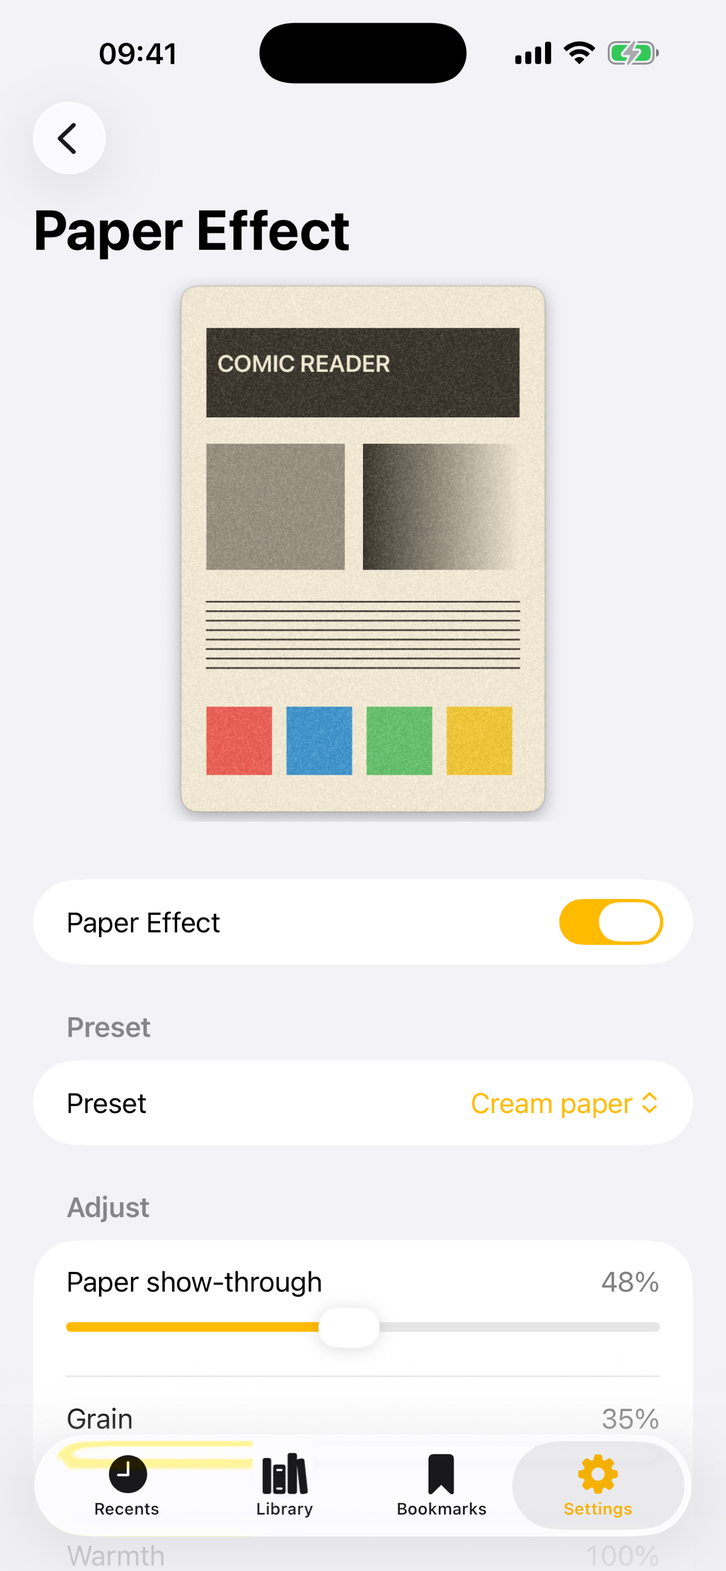
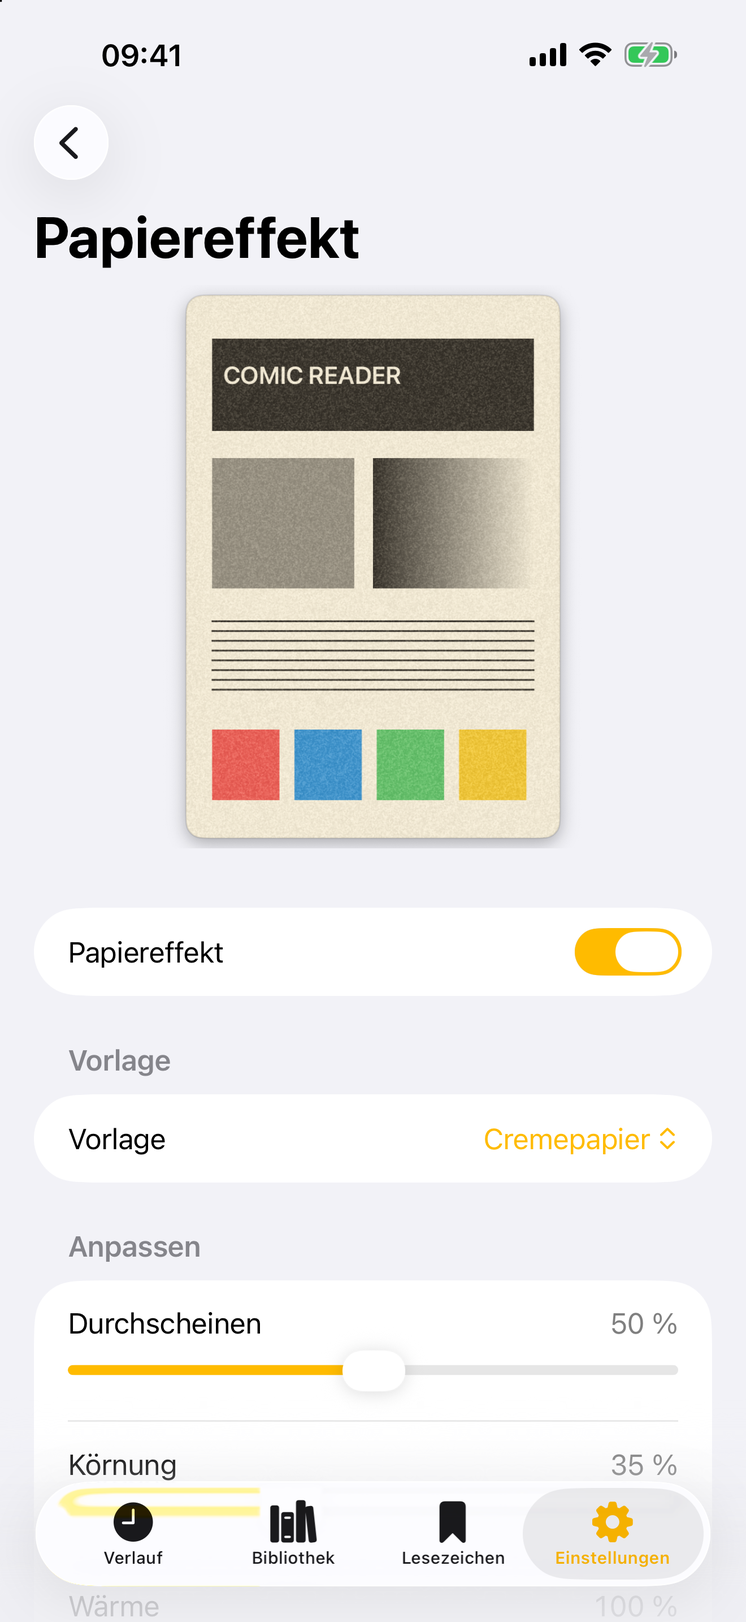
Update the Paper Comic Reader post with new screenshots

diff --git a/blog/paper-comic-reader/index.html b/blog/paper-comic-reader/index.html
@@ -16,11 +16,11 @@
 	<meta property="og:site_name" content="wiredframe">
 	<meta property="og:locale" content="de_DE">
 	<meta name="twitter:card" content="summary_large_image">
-	<meta property="og:image" content="https://www.wiredframe.de/blog/paper-comic-reader/vorschau-zuletzt.jpg">
-	<meta name="twitter:image" content="https://www.wiredframe.de/blog/paper-comic-reader/vorschau-zuletzt.jpg">
-	<meta property="og:image:alt" content="Die Ansicht „Recents“ mit dem Cover des Demo-Comics „Deep Blue“ im Karussell, darunter Titel, Seitenzahl und der Knopf „Read“">
+	<meta property="og:image" content="https://www.wiredframe.de/blog/paper-comic-reader/vorschau-verlauf.jpg">
+	<meta name="twitter:image" content="https://www.wiredframe.de/blog/paper-comic-reader/vorschau-verlauf.jpg">
+	<meta property="og:image:alt" content="Die Ansicht „Verlauf“: das rote Cover des Demo-Comics „Crimson Alley“ im Karussell, darunter Titel, Seitenzahl und der Knopf „Lesen“">
 	<meta property="article:published_time" content="2026-07-24">
-	<meta property="article:modified_time" content="2026-10-20">
+	<meta property="article:modified_time" content="2026-11-03">
 	<meta name="viewport" content="width=device-width, initial-scale=1, viewport-fit=cover">
 	<meta name="theme-color" content="#e2ebe6">
 	<meta name="robots" content="index, follow, max-snippet:-1, max-image-preview:large">
@@ -33,9 +33,9 @@
 		"description": "Ich bin UI Designer und schreibe keine Schleifen von Hand. Trotzdem liegt jetzt eine iOS-App von mir im App Store, gebaut zusammen mit Claude, angestoßen von einem Rest Wochenkontingent.",
 		"url": "https://www.wiredframe.de/blog/paper-comic-reader/",
 		"datePublished": "2026-07-24",
-		"dateModified": "2026-10-20",
+		"dateModified": "2026-11-03",
 		"inLanguage": "de-DE",
-		"wordCount": 1302,
+		"wordCount": 1448,
 		"author": {
 			"@id": "https://www.wiredframe.de/#ulf"
 		},
@@ -45,7 +45,7 @@
 		"isPartOf": {
 			"@id": "https://www.wiredframe.de/blog/#blog"
 		},
-		"image": "https://www.wiredframe.de/blog/paper-comic-reader/vorschau-zuletzt.jpg"
+		"image": "https://www.wiredframe.de/blog/paper-comic-reader/vorschau-verlauf.jpg"
 	}
 	</script>
 	<link rel="stylesheet" href="/css/blog.css?v=dc19f69c">
@@ -63,15 +63,15 @@
 		</a>
 		<article class="beitrag">
 			<header class="beitrag__kopf">
-				<p class="meta"><time datetime="2026-07-24">24. Juli 2026</time><span>aktualisiert am <time datetime="2026-10-20">20. Oktober 2026</time></span><span>7 Minuten Lesezeit</span></p>
+				<p class="meta"><time datetime="2026-07-24">24. Juli 2026</time><span>aktualisiert am <time datetime="2026-11-03">3. November 2026</time></span><span>8 Minuten Lesezeit</span></p>
 				<h1 class="beitrag__titel">Paper Comic Reader: Comics wie auf Papier gedruckt</h1>
 				<p class="beitrag__lead">Ich bin UI Designer und schreibe keine Schleifen von Hand. Trotzdem liegt jetzt eine iOS-App von mir im App Store, gebaut zusammen mit Claude, angestoßen von einem Rest Wochenkontingent.</p>
 			</header>
 			<div class="beitrag__text">
 				<figure>
-					<img src="/blog/paper-comic-reader/zuletzt-1200.webp" srcset="/blog/paper-comic-reader/zuletzt-1200.webp 1200w, /blog/paper-comic-reader/zuletzt-1284.webp 1284w" sizes="(max-width: 376px) 92vw, 296px"
-						width="296" height="640" alt="Die Ansicht „Recents“ mit dem Cover des Demo-Comics „Deep Blue“ im Karussell, darunter Titel, Seitenzahl und der Knopf „Read“" decoding="async">
-					<figcaption>Zuletzt gelesen als Karussell. Die Cover sind mitgelieferte Demo-Comics, keine Verlagsware.</figcaption>
+					<img src="/blog/paper-comic-reader/verlauf-1200.webp" srcset="/blog/paper-comic-reader/verlauf-1200.webp 1200w, /blog/paper-comic-reader/verlauf-1320.webp 1320w" sizes="(max-width: 375px) 92vw, 295px"
+						width="295" height="640" alt="Die Ansicht „Verlauf“: das rote Cover des Demo-Comics „Crimson Alley“ im Karussell, darunter Titel, Seitenzahl und der Knopf „Lesen“" decoding="async">
+					<figcaption>Der Verlauf als Karussell. Die Cover sind mitgelieferte Demo-Comics, keine Verlagsware.</figcaption>
 				</figure>
 				<p>Ich kann eine halbe Stunde über einen Schatten mit vier Punkt Unschärfe diskutieren. Eine saubere <code>for</code>-Schleife bekomme ich allein nicht hin. Paper Comic Reader gibt es trotzdem: ein schlanker, nativer Comic-Reader für iPhone und iPad, der Seiten so zeigt, als wären sie mit Tinte auf Papier gedruckt, statt hinter leuchtendem Glas.</p>
 				<p>Angefangen hat es auf dem Mac. Ich hatte <a href="https://github.com/Wiredframe/Simple-Comic">Simple Comic</a>, einen alten Open-Source-Reader, geforkt und ihm einen Metal-Shader für einen Papier-Look eingebaut. Als die erste Comicseite damit aussah wie frisch gedruckt, war die Frage naheliegend: Geht das auch auf dem iPhone?</p>
@@ -81,8 +81,13 @@
 				<p>Dazu kommt das Korn, und zwar zweifach, so wie bei echtem Papier: eine feine Struktur auf den hellen Flächen und Fasern, die durch die Druckfarbe schimmern, am stärksten in den dunklen Partien. Gerade dieses Durchscheinen macht für mich den Reiz eines gedruckten Comics aus.</p>
 				<p>Die erste Fassung des Korns hatte ein feines Gitter, wie ein Fliegengitter. Das Rauschen lag brav am Pixelraster. Die Lösung war, jede Rauschebene ein Stück zu drehen, damit sich nichts mehr mit dem Raster deckt. Bewusst bemerkt das niemand. Dass es fehlt, bemerkt dagegen jeder.</p>
 				<figure>
-					<img src="/blog/paper-comic-reader/papiereffekt-1200.webp" srcset="/blog/paper-comic-reader/papiereffekt-1200.webp 1200w, /blog/paper-comic-reader/papiereffekt-1284.webp 1284w" sizes="(max-width: 376px) 92vw, 296px"
-						width="296" height="640" alt="Die Einstellungsseite „Paper Effect“ mit einer Musterseite in Creme, darunter Schalter, Voreinstellung „Cream paper“ und Regler für Durchscheinen und Korn" loading="lazy" decoding="async">
+					<img src="/blog/paper-comic-reader/leseansicht-1200.webp" srcset="/blog/paper-comic-reader/leseansicht-1200.webp 1200w, /blog/paper-comic-reader/leseansicht-1320.webp 1320w" sizes="(max-width: 375px) 92vw, 295px"
+						width="295" height="640" alt="Eine Comicseite in warmem Creme, rosa Panels mit feinem Korn und zwei Sprechblasen" loading="lazy" decoding="async">
+					<figcaption>Eine Seite mit Cremepapier: Weiß wird warm, die Farben matt, das Korn scheint durch.</figcaption>
+				</figure>
+				<figure>
+					<img src="/blog/paper-comic-reader/papiereffekt-1200.webp" srcset="/blog/paper-comic-reader/papiereffekt-1200.webp 1200w, /blog/paper-comic-reader/papiereffekt-1320.webp 1320w" sizes="(max-width: 375px) 92vw, 295px"
+						width="295" height="640" alt="Die Einstellungsseite „Papiereffekt“ mit einer Musterseite in Creme, Schalter, Vorlage „Cremepapier“ und Reglern für Durchscheinen und Körnung" loading="lazy" decoding="async">
 					<figcaption>Die Einstellungen mit Vorschau. Die Regler gibt es auch als benannte Papiersorten.</figcaption>
 				</figure>
 				<p>Weil ich in Materialien denke und nicht in Prozentwerten, gibt es Voreinstellungen: Cream Paper, Newsprint, Manga und E-Ink. Der Effekt läuft als kleines Programm auf der Grafikkarte, mit einem Ersatzweg, falls es einmal nicht lädt.</p>
@@ -90,12 +95,27 @@
 				<p>Comics lesen heißt blättern und drehen. Am ersten Tag brauchte es sechs Anläufe für eine einzige Drehung, weil im Querformat die rechte Hälfte einer Doppelseite beim Drehen nie zur linken werden darf. Technisch lief es vorher schon. Es sah nur falsch aus.</p>
 				<p>Hartnäckiger war ein Gefühl: Umblättern wirkte einen Hauch weniger flüssig als der Zoom. Es stellte sich heraus, dass die beiden Animationen über zwei verschiedene Wege liefen. Der Zoom lief über Core Animation, das Blättern über eine eigene Schleife auf dem Hauptthread, die auf 120-Hz-Displays gelegentlich ein Bild verschluckte. Auf 60 Hz unsichtbar. Seit das Blättern ebenfalls über Core Animation läuft, ist der Unterschied weg.</p>
 				<p>Ähnlich das Karussell für „Entdecken“: Es ruckte am Ende eines langsamen Wischens, bei einem schnellen nicht. Der Container las bei jedem Bild mit, welches Cover gerade in der Mitte steht, zeichnete sich deshalb neu und schubste die Karte, die gerade einrasten wollte. Jetzt wissen das nur noch die Ansichten, die es brauchen. Nachweisen ließ sich das nur am echten Gerät. Solche Dinge findet kein Test, man muss sie ertasten.</p>
+				<figure>
+					<img src="/blog/paper-comic-reader/entdecken-1200.webp" srcset="/blog/paper-comic-reader/entdecken-1200.webp 1200w, /blog/paper-comic-reader/entdecken-1320.webp 1320w" sizes="(max-width: 375px) 92vw, 295px"
+						width="295" height="640" alt="Die Bibliothek mit den Reitern Entdecken, Beliebt und Verstaubt und dem orangen Cover von „Copper Fox“ im Karussell" loading="lazy" decoding="async">
+					<figcaption>Entdecken, Beliebt und Verstaubt holen Comics hervor, die man vergessen hat.</figcaption>
+				</figure>
 				<h2 id="raus-aus-dem-app-store-und-wieder-rein">Raus aus dem App Store und wieder rein</h2>
 				<p>Am 7. Juli war die App schon auf Paper Comic Reader umbenannt und für den App Store vorbereitet. Zurück kam eine Ablehnung, unter anderem mit „Tips failed to load“. Ich hatte einen kleinen Trinkgeld-Knopf eingebaut, und ausgerechnet der lud beim Prüfer nicht.</p>
 				<p>Der Aufwand mit Freigaben und Verträgen war mir das für eine kostenlose App nicht wert. Am 14. Juli flog der Bezahlcode raus, und die App ging stattdessen als unsignierte <code>.ipa</code> auf GitHub. Wer sie will, signiert sie mit der eigenen Apple-ID neu, etwa mit AltStore oder Sideloadly. Fummelig, aber unabhängig.</p>
 				<h2 id="ein-regal-mit-comics-die-gar-nicht-da-sind">Ein Regal mit Comics, die gar nicht da sind</h2>
 				<p>In der zweiten Woche lernte die App, die Angaben in <code>ComicInfo.xml</code> zu lesen, also Serie, Ausgabe und Story, und speichert sie mit dem Lesefortschritt in einer kleinen Datenbank. CBR flog dafür raus, seitdem liest die App nur noch CBZ.</p>
+				<figure>
+					<img src="/blog/paper-comic-reader/details-1200.webp" srcset="/blog/paper-comic-reader/details-1200.webp 1200w, /blog/paper-comic-reader/details-1320.webp 1320w" sizes="(max-width: 375px) 92vw, 295px"
+						width="295" height="640" alt="Die Detailansicht von „Deep Blue 2“ mit zwei Geschichten samt Autoren und Zeichnern, Verlag, Erscheinungsjahr und Sprache" loading="lazy" decoding="async">
+					<figcaption>Was in <code>ComicInfo.xml</code> steht, zeigt die Detailansicht, bei Sammelbänden mit Inhaltsverzeichnis.</figcaption>
+				</figure>
 				<p>Das Stück, das mir am meisten gefällt, sieht man nicht. Eine Comic-Sammlung ist schnell viele Gigabyte groß, die will niemand komplett auf dem Telefon haben. Man zeigt der App deshalb einen Ordner, den die Dateien-App erreicht, etwa ein NAS, iCloud oder einen Fileserver. Sie geht ihn einmal durch und holt aus jedem Comic nur Cover und Metadaten. Die Bibliothek sieht vollständig aus, durchsuchbar nach Titel, Story und Ausgabe. Erst beim Antippen wird ein Comic geladen, und wer Platz braucht, entfernt die Datei wieder, Cover und Titel bleiben stehen.</p>
+				<figure>
+					<img src="/blog/paper-comic-reader/bibliothek-1200.webp" srcset="/blog/paper-comic-reader/bibliothek-1200.webp 1200w, /blog/paper-comic-reader/bibliothek-1320.webp 1320w" sizes="(max-width: 375px) 92vw, 295px"
+						width="295" height="640" alt="Die Bibliothek als Raster aus vier farbigen Demo-Covern mit Suchfeld, Titeln und Seitenzahlen" loading="lazy" decoding="async">
+					<figcaption>Die Bibliothek. Ob ein Comic gerade auf dem Telefon liegt, sieht man ihr nicht an.</figcaption>
+				</figure>
 				<p>Dahinter steckt viel unsichtbare Arbeit: eine Zugriffserlaubnis auf den fremden Ordner, die Neustarts übersteht. Die Frage „ist der Ordner überhaupt da?“, die bei einem schlafenden NAS hängen kann und deshalb nicht auf dem Hauptthread laufen darf. Und ein Ordner <code>ComicsExtra</code>, der nicht fälschlich in <code>Comics</code> landen soll, nur weil der Name gleich anfängt.</p>
 				<h2 id="zurueck-in-den-store">Zurück in den Store</h2>
 				<p>Am 17. Juli kam die Kehrtwende, zurück in den App Store. Der Trinkgeld-Knopf existierte da schon nicht mehr, „Bezahlfunktion entfernen“ war am Ende ein gestrichener Satz in einem Formular. Dazu kamen vier mitgelieferte Demo-Comics, damit eine frische Installation nicht leer ist und die Screenshots ohne fremde Cover auskommen, ein Datenschutz-Manifest und am selben Tag eine kleine <a href="https://wiredframe.github.io/paper-comic-reader-landingpage/">Landingpage</a>.</p>
@@ -112,6 +132,8 @@
 				<h3 id="ein-tag-nur-fuer-robustheit-19-oktober">Ein Tag nur für Robustheit (19. Oktober)</h3>
 				<p>Version 1.4.2 besteht aus 46 Commits an einem Tag, und fast keiner davon ist eine neue Funktion. Claude und ich sind die App auf Fehlerfälle durchgegangen. Der wichtigste betrifft die Datenbank: Lässt sie sich nicht öffnen, wird sie nie mehr gelöscht. Die App versucht es erneut, legt die Datei sonst in eine Sicherung (die fünf neuesten bleiben) und schreibt bei jedem Wechsel in den Hintergrund einen Schnappschuss der Bibliothek, aus dem sie sich nach einem Zurücksetzen einmal wiederherstellen lässt. Dazu: abgebrochene Downloads werden nicht mehr installiert, Sicherungen mit Dateinamen außerhalb ihres Ordners abgelehnt, VoiceOver kann blättern, und die Detailansicht wächst mit der Schriftgröße.</p>
 				<p>Stand heute: 202 Commits, Version 1.4.2.</p>
+				<h3 id="neue-demo-comics-neue-bilder-2-november">Neue Demo-Comics, neue Bilder (2. November)</h3>
+				<p>Die vier Demo-Comics mit leeren, nummerierten Seiten sind mit Version 1.4.4 sechs neuen gewichen, denselben, die auch die Mac-Version mitbringt: einfarbige Cover, Seiten mit Panels und ein paar Sprechblasen, gezeichnet von einem kleinen Swift-Skript, das sich beide Apps teilen. Wer die App schon installiert hat, merkt davon nichts, die Demo-Comics werden nur beim ersten Start angelegt. Mit ihnen sind die App-Store-Bilder auf Englisch, Deutsch und Italienisch neu entstanden, und die deutschen Aufnahmen dafür stehen jetzt auch hier im Beitrag.</p>
 			</div>
 		</article>
 		<nav class="weiter" aria-label="Weitere Beiträge">

diff --git a/blog/index.html b/blog/index.html
@@ -215,11 +215,11 @@
 			<li class="bento bento--klein">
 				<a class="bento__link" href="/blog/paper-comic-reader/">
 					<span class="bento__flaeche">
-						<img class="bento__bild" src="/blog/paper-comic-reader/zuletzt-1200.webp" srcset="/blog/paper-comic-reader/zuletzt-1200.webp 1200w, /blog/paper-comic-reader/zuletzt-1284.webp 1284w"
-							sizes="(max-width: 36rem) 92vw, 24rem" width="642" height="1389" alt="" decoding="async">
+						<img class="bento__bild" src="/blog/paper-comic-reader/verlauf-1200.webp" srcset="/blog/paper-comic-reader/verlauf-1200.webp 1200w, /blog/paper-comic-reader/verlauf-1320.webp 1320w"
+							sizes="(max-width: 36rem) 92vw, 24rem" width="660" height="1434" alt="" decoding="async">
 					</span>
 					<span class="bento__text">
-						<p class="meta"><time datetime="2026-07-24">24. Juli 2026</time><span>aktualisiert am <time datetime="2026-10-20">20. Oktober 2026</time></span><span>7 Minuten Lesezeit</span></p>
+						<p class="meta"><time datetime="2026-07-24">24. Juli 2026</time><span>aktualisiert am <time datetime="2026-11-03">3. November 2026</time></span><span>8 Minuten Lesezeit</span></p>
 						<h2 class="bento__titel">Paper Comic Reader: Comics wie auf Papier gedruckt</h2>
 						<p class="bento__teaser">Ich bin UI Designer und schreibe keine Schleifen von Hand. Trotzdem liegt jetzt eine iOS-App von mir im App Store, gebaut zusammen mit Claude, angestoßen von einem Rest Wochenkontingent.</p>
 					</span>

diff --git a/blog/paper-comic-reader/index.md b/blog/paper-comic-reader/index.md
@@ -2,11 +2,11 @@
 
 *Ich bin UI Designer und schreibe keine Schleifen von Hand. Trotzdem liegt jetzt eine iOS-App von mir im App Store, gebaut zusammen mit Claude, angestoßen von einem Rest Wochenkontingent.*
 
-**24. Juli 2026, aktualisiert am 20. Oktober 2026, 7 Minuten Lesezeit**
+**24. Juli 2026, aktualisiert am 3. November 2026, 8 Minuten Lesezeit**
 
-![Die Ansicht „Recents“ mit dem Cover des Demo-Comics „Deep Blue“ im Karussell, darunter Titel, Seitenzahl und der Knopf „Read“](https://www.wiredframe.de/blog/paper-comic-reader/zuletzt-1200.webp)
+![Die Ansicht „Verlauf“: das rote Cover des Demo-Comics „Crimson Alley“ im Karussell, darunter Titel, Seitenzahl und der Knopf „Lesen“](https://www.wiredframe.de/blog/paper-comic-reader/verlauf-1200.webp)
 
-*Zuletzt gelesen als Karussell. Die Cover sind mitgelieferte Demo-Comics, keine Verlagsware.*
+*Der Verlauf als Karussell. Die Cover sind mitgelieferte Demo-Comics, keine Verlagsware.*
 
 Ich kann eine halbe Stunde über einen Schatten mit vier Punkt Unschärfe diskutieren. Eine saubere `for`-Schleife bekomme ich allein nicht hin. Paper Comic Reader gibt es trotzdem: ein schlanker, nativer Comic-Reader für iPhone und iPad, der Seiten so zeigt, als wären sie mit Tinte auf Papier gedruckt, statt hinter leuchtendem Glas.
 
@@ -22,7 +22,11 @@ Dazu kommt das Korn, und zwar zweifach, so wie bei echtem Papier: eine feine Str
 
 Die erste Fassung des Korns hatte ein feines Gitter, wie ein Fliegengitter. Das Rauschen lag brav am Pixelraster. Die Lösung war, jede Rauschebene ein Stück zu drehen, damit sich nichts mehr mit dem Raster deckt. Bewusst bemerkt das niemand. Dass es fehlt, bemerkt dagegen jeder.
 
-![Die Einstellungsseite „Paper Effect“ mit einer Musterseite in Creme, darunter Schalter, Voreinstellung „Cream paper“ und Regler für Durchscheinen und Korn](https://www.wiredframe.de/blog/paper-comic-reader/papiereffekt-1200.webp)
+![Eine Comicseite in warmem Creme, rosa Panels mit feinem Korn und zwei Sprechblasen](https://www.wiredframe.de/blog/paper-comic-reader/leseansicht-1200.webp)
+
+*Eine Seite mit Cremepapier: Weiß wird warm, die Farben matt, das Korn scheint durch.*
+
+![Die Einstellungsseite „Papiereffekt“ mit einer Musterseite in Creme, Schalter, Vorlage „Cremepapier“ und Reglern für Durchscheinen und Körnung](https://www.wiredframe.de/blog/paper-comic-reader/papiereffekt-1200.webp)
 
 *Die Einstellungen mit Vorschau. Die Regler gibt es auch als benannte Papiersorten.*
 
@@ -36,6 +40,10 @@ Hartnäckiger war ein Gefühl: Umblättern wirkte einen Hauch weniger flüssig a
 
 Ähnlich das Karussell für „Entdecken“: Es ruckte am Ende eines langsamen Wischens, bei einem schnellen nicht. Der Container las bei jedem Bild mit, welches Cover gerade in der Mitte steht, zeichnete sich deshalb neu und schubste die Karte, die gerade einrasten wollte. Jetzt wissen das nur noch die Ansichten, die es brauchen. Nachweisen ließ sich das nur am echten Gerät. Solche Dinge findet kein Test, man muss sie ertasten.
 
+![Die Bibliothek mit den Reitern Entdecken, Beliebt und Verstaubt und dem orangen Cover von „Copper Fox“ im Karussell](https://www.wiredframe.de/blog/paper-comic-reader/entdecken-1200.webp)
+
+*Entdecken, Beliebt und Verstaubt holen Comics hervor, die man vergessen hat.*
+
 ## Raus aus dem App Store und wieder rein
 
 Am 7. Juli war die App schon auf Paper Comic Reader umbenannt und für den App Store vorbereitet. Zurück kam eine Ablehnung, unter anderem mit „Tips failed to load“. Ich hatte einen kleinen Trinkgeld-Knopf eingebaut, und ausgerechnet der lud beim Prüfer nicht.
@@ -46,7 +54,15 @@ Der Aufwand mit Freigaben und Verträgen war mir das für eine kostenlose App ni
 
 In der zweiten Woche lernte die App, die Angaben in `ComicInfo.xml` zu lesen, also Serie, Ausgabe und Story, und speichert sie mit dem Lesefortschritt in einer kleinen Datenbank. CBR flog dafür raus, seitdem liest die App nur noch CBZ.
 
+![Die Detailansicht von „Deep Blue 2“ mit zwei Geschichten samt Autoren und Zeichnern, Verlag, Erscheinungsjahr und Sprache](https://www.wiredframe.de/blog/paper-comic-reader/details-1200.webp)
+
+*Was in `ComicInfo.xml` steht, zeigt die Detailansicht, bei Sammelbänden mit Inhaltsverzeichnis.*
+
 Das Stück, das mir am meisten gefällt, sieht man nicht. Eine Comic-Sammlung ist schnell viele Gigabyte groß, die will niemand komplett auf dem Telefon haben. Man zeigt der App deshalb einen Ordner, den die Dateien-App erreicht, etwa ein NAS, iCloud oder einen Fileserver. Sie geht ihn einmal durch und holt aus jedem Comic nur Cover und Metadaten. Die Bibliothek sieht vollständig aus, durchsuchbar nach Titel, Story und Ausgabe. Erst beim Antippen wird ein Comic geladen, und wer Platz braucht, entfernt die Datei wieder, Cover und Titel bleiben stehen.
+
+![Die Bibliothek als Raster aus vier farbigen Demo-Covern mit Suchfeld, Titeln und Seitenzahlen](https://www.wiredframe.de/blog/paper-comic-reader/bibliothek-1200.webp)
+
+*Die Bibliothek. Ob ein Comic gerade auf dem Telefon liegt, sieht man ihr nicht an.*
 
 Dahinter steckt viel unsichtbare Arbeit: eine Zugriffserlaubnis auf den fremden Ordner, die Neustarts übersteht. Die Frage „ist der Ordner überhaupt da?“, die bei einem schlafenden NAS hängen kann und deshalb nicht auf dem Hauptthread laufen darf. Und ein Ordner `ComicsExtra`, der nicht fälschlich in `Comics` landen soll, nur weil der Name gleich anfängt.
 
@@ -73,6 +89,10 @@ Der Papiereffekt hat inzwischen auch ein Geschwisterprojekt: „Papier“ legt i
 Version 1.4.2 besteht aus 46 Commits an einem Tag, und fast keiner davon ist eine neue Funktion. Claude und ich sind die App auf Fehlerfälle durchgegangen. Der wichtigste betrifft die Datenbank: Lässt sie sich nicht öffnen, wird sie nie mehr gelöscht. Die App versucht es erneut, legt die Datei sonst in eine Sicherung (die fünf neuesten bleiben) und schreibt bei jedem Wechsel in den Hintergrund einen Schnappschuss der Bibliothek, aus dem sie sich nach einem Zurücksetzen einmal wiederherstellen lässt. Dazu: abgebrochene Downloads werden nicht mehr installiert, Sicherungen mit Dateinamen außerhalb ihres Ordners abgelehnt, VoiceOver kann blättern, und die Detailansicht wächst mit der Schriftgröße.
 
 Stand heute: 202 Commits, Version 1.4.2.
+
+### Neue Demo-Comics, neue Bilder (2. November)
+
+Die vier Demo-Comics mit leeren, nummerierten Seiten sind mit Version 1.4.4 sechs neuen gewichen, denselben, die auch die Mac-Version mitbringt: einfarbige Cover, Seiten mit Panels und ein paar Sprechblasen, gezeichnet von einem kleinen Swift-Skript, das sich beide Apps teilen. Wer die App schon installiert hat, merkt davon nichts, die Demo-Comics werden nur beim ersten Start angelegt. Mit ihnen sind die App-Store-Bilder auf Englisch, Deutsch und Italienisch neu entstanden, und die deutschen Aufnahmen dafür stehen jetzt auch hier im Beitrag.
 
 ---
 

diff --git a/_blog/2026-07-24-paper-comic-reader/beitrag.md b/_blog/2026-07-24-paper-comic-reader/beitrag.md
@@ -1,14 +1,14 @@
 ---
-aktualisiert: 2026-10-20
+aktualisiert: 2026-11-03
 ---
 
 # Paper Comic Reader: Comics wie auf Papier gedruckt
 
 *Ich bin UI Designer und schreibe keine Schleifen von Hand. Trotzdem liegt jetzt eine iOS-App von mir im App Store, gebaut zusammen mit Claude, angestoßen von einem Rest Wochenkontingent.*
 
-![Die Ansicht „Recents“ mit dem Cover des Demo-Comics „Deep Blue“ im Karussell, darunter Titel, Seitenzahl und der Knopf „Read“](bilder/zuletzt.png)
+![Die Ansicht „Verlauf“: das rote Cover des Demo-Comics „Crimson Alley“ im Karussell, darunter Titel, Seitenzahl und der Knopf „Lesen“](bilder/verlauf.png)
 
-*Zuletzt gelesen als Karussell. Die Cover sind mitgelieferte Demo-Comics, keine Verlagsware.*
+*Der Verlauf als Karussell. Die Cover sind mitgelieferte Demo-Comics, keine Verlagsware.*
 
 Ich kann eine halbe Stunde über einen Schatten mit vier Punkt Unschärfe diskutieren. Eine saubere `for`-Schleife bekomme ich allein nicht hin. Paper Comic Reader gibt es trotzdem: ein schlanker, nativer Comic-Reader für iPhone und iPad, der Seiten so zeigt, als wären sie mit Tinte auf Papier gedruckt, statt hinter leuchtendem Glas.
 
@@ -24,7 +24,11 @@ Dazu kommt das Korn, und zwar zweifach, so wie bei echtem Papier: eine feine Str
 
 Die erste Fassung des Korns hatte ein feines Gitter, wie ein Fliegengitter. Das Rauschen lag brav am Pixelraster. Die Lösung war, jede Rauschebene ein Stück zu drehen, damit sich nichts mehr mit dem Raster deckt. Bewusst bemerkt das niemand. Dass es fehlt, bemerkt dagegen jeder.
 
-![Die Einstellungsseite „Paper Effect“ mit einer Musterseite in Creme, darunter Schalter, Voreinstellung „Cream paper“ und Regler für Durchscheinen und Korn](bilder/papiereffekt.png)
+![Eine Comicseite in warmem Creme, rosa Panels mit feinem Korn und zwei Sprechblasen](bilder/leseansicht.png)
+
+*Eine Seite mit Cremepapier: Weiß wird warm, die Farben matt, das Korn scheint durch.*
+
+![Die Einstellungsseite „Papiereffekt“ mit einer Musterseite in Creme, Schalter, Vorlage „Cremepapier“ und Reglern für Durchscheinen und Körnung](bilder/papiereffekt.png)
 
 *Die Einstellungen mit Vorschau. Die Regler gibt es auch als benannte Papiersorten.*
 
@@ -38,6 +42,10 @@ Hartnäckiger war ein Gefühl: Umblättern wirkte einen Hauch weniger flüssig a
 
 Ähnlich das Karussell für „Entdecken“: Es ruckte am Ende eines langsamen Wischens, bei einem schnellen nicht. Der Container las bei jedem Bild mit, welches Cover gerade in der Mitte steht, zeichnete sich deshalb neu und schubste die Karte, die gerade einrasten wollte. Jetzt wissen das nur noch die Ansichten, die es brauchen. Nachweisen ließ sich das nur am echten Gerät. Solche Dinge findet kein Test, man muss sie ertasten.
 
+![Die Bibliothek mit den Reitern Entdecken, Beliebt und Verstaubt und dem orangen Cover von „Copper Fox“ im Karussell](bilder/entdecken.png)
+
+*Entdecken, Beliebt und Verstaubt holen Comics hervor, die man vergessen hat.*
+
 ## Raus aus dem App Store und wieder rein
 
 Am 7. Juli war die App schon auf Paper Comic Reader umbenannt und für den App Store vorbereitet. Zurück kam eine Ablehnung, unter anderem mit „Tips failed to load“. Ich hatte einen kleinen Trinkgeld-Knopf eingebaut, und ausgerechnet der lud beim Prüfer nicht.
@@ -48,7 +56,15 @@ Der Aufwand mit Freigaben und Verträgen war mir das für eine kostenlose App ni
 
 In der zweiten Woche lernte die App, die Angaben in `ComicInfo.xml` zu lesen, also Serie, Ausgabe und Story, und speichert sie mit dem Lesefortschritt in einer kleinen Datenbank. CBR flog dafür raus, seitdem liest die App nur noch CBZ.
 
+![Die Detailansicht von „Deep Blue 2“ mit zwei Geschichten samt Autoren und Zeichnern, Verlag, Erscheinungsjahr und Sprache](bilder/details.png)
+
+*Was in `ComicInfo.xml` steht, zeigt die Detailansicht, bei Sammelbänden mit Inhaltsverzeichnis.*
+
 Das Stück, das mir am meisten gefällt, sieht man nicht. Eine Comic-Sammlung ist schnell viele Gigabyte groß, die will niemand komplett auf dem Telefon haben. Man zeigt der App deshalb einen Ordner, den die Dateien-App erreicht, etwa ein NAS, iCloud oder einen Fileserver. Sie geht ihn einmal durch und holt aus jedem Comic nur Cover und Metadaten. Die Bibliothek sieht vollständig aus, durchsuchbar nach Titel, Story und Ausgabe. Erst beim Antippen wird ein Comic geladen, und wer Platz braucht, entfernt die Datei wieder, Cover und Titel bleiben stehen.
+
+![Die Bibliothek als Raster aus vier farbigen Demo-Covern mit Suchfeld, Titeln und Seitenzahlen](bilder/bibliothek.png)
+
+*Die Bibliothek. Ob ein Comic gerade auf dem Telefon liegt, sieht man ihr nicht an.*
 
 Dahinter steckt viel unsichtbare Arbeit: eine Zugriffserlaubnis auf den fremden Ordner, die Neustarts übersteht. Die Frage „ist der Ordner überhaupt da?“, die bei einem schlafenden NAS hängen kann und deshalb nicht auf dem Hauptthread laufen darf. Und ein Ordner `ComicsExtra`, der nicht fälschlich in `Comics` landen soll, nur weil der Name gleich anfängt.
 
@@ -75,3 +91,7 @@ Der Papiereffekt hat inzwischen auch ein Geschwisterprojekt: „Papier“ legt i
 Version 1.4.2 besteht aus 46 Commits an einem Tag, und fast keiner davon ist eine neue Funktion. Claude und ich sind die App auf Fehlerfälle durchgegangen. Der wichtigste betrifft die Datenbank: Lässt sie sich nicht öffnen, wird sie nie mehr gelöscht. Die App versucht es erneut, legt die Datei sonst in eine Sicherung (die fünf neuesten bleiben) und schreibt bei jedem Wechsel in den Hintergrund einen Schnappschuss der Bibliothek, aus dem sie sich nach einem Zurücksetzen einmal wiederherstellen lässt. Dazu: abgebrochene Downloads werden nicht mehr installiert, Sicherungen mit Dateinamen außerhalb ihres Ordners abgelehnt, VoiceOver kann blättern, und die Detailansicht wächst mit der Schriftgröße.
 
 Stand heute: 202 Commits, Version 1.4.2.
+
+### Neue Demo-Comics, neue Bilder (2. November)
+
+Die vier Demo-Comics mit leeren, nummerierten Seiten sind mit Version 1.4.4 sechs neuen gewichen, denselben, die auch die Mac-Version mitbringt: einfarbige Cover, Seiten mit Panels und ein paar Sprechblasen, gezeichnet von einem kleinen Swift-Skript, das sich beide Apps teilen. Wer die App schon installiert hat, merkt davon nichts, die Demo-Comics werden nur beim ersten Start angelegt. Mit ihnen sind die App-Store-Bilder auf Englisch, Deutsch und Italienisch neu entstanden, und die deutschen Aufnahmen dafür stehen jetzt auch hier im Beitrag.

diff --git a/blog/index.md b/blog/index.md
@@ -78,7 +78,7 @@ Dropover hat bei jeder Aktion nach Hause telefoniert. Also habe ich mir meine ei
 
 ## [Paper Comic Reader: Comics wie auf Papier gedruckt](https://www.wiredframe.de/blog/paper-comic-reader/index.md)
 
-*24. Juli 2026, aktualisiert am 20. Oktober 2026, 7 Minuten Lesezeit*
+*24. Juli 2026, aktualisiert am 3. November 2026, 8 Minuten Lesezeit*
 
 Ich bin UI Designer und schreibe keine Schleifen von Hand. Trotzdem liegt jetzt eine iOS-App von mir im App Store, gebaut zusammen mit Claude, angestoßen von einem Rest Wochenkontingent.
 
